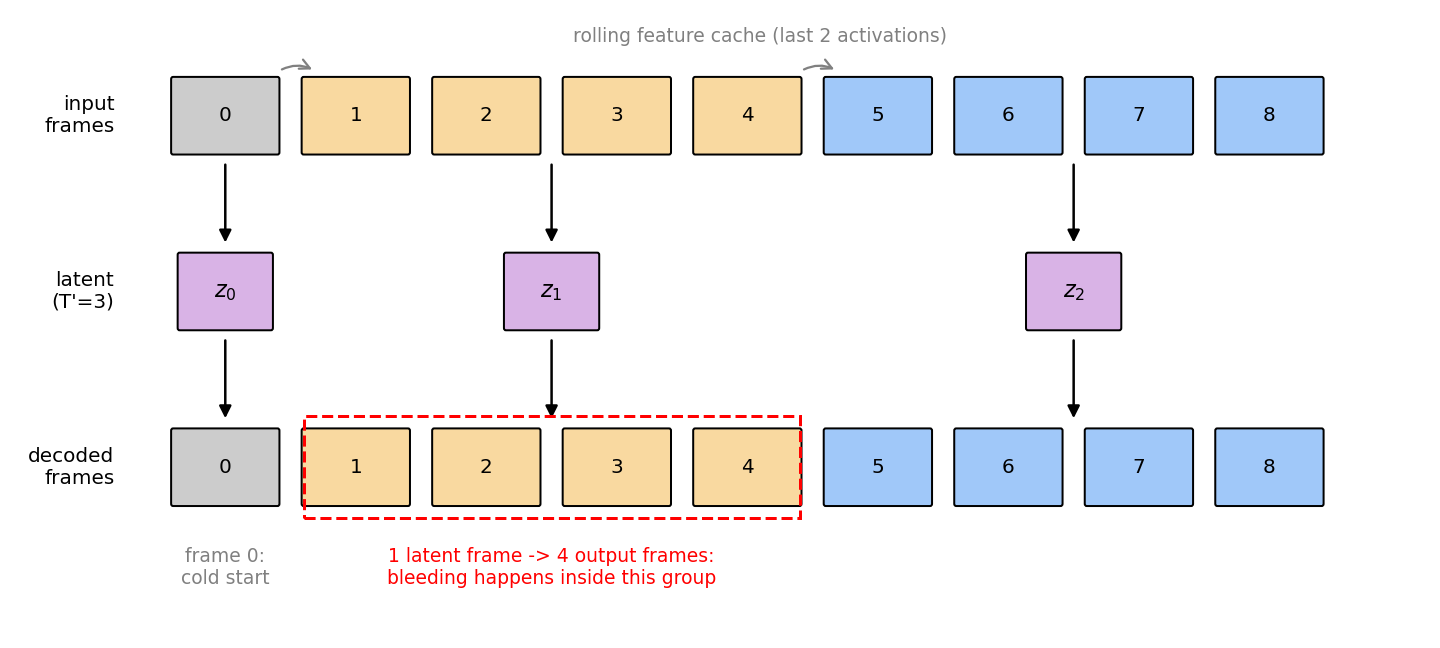
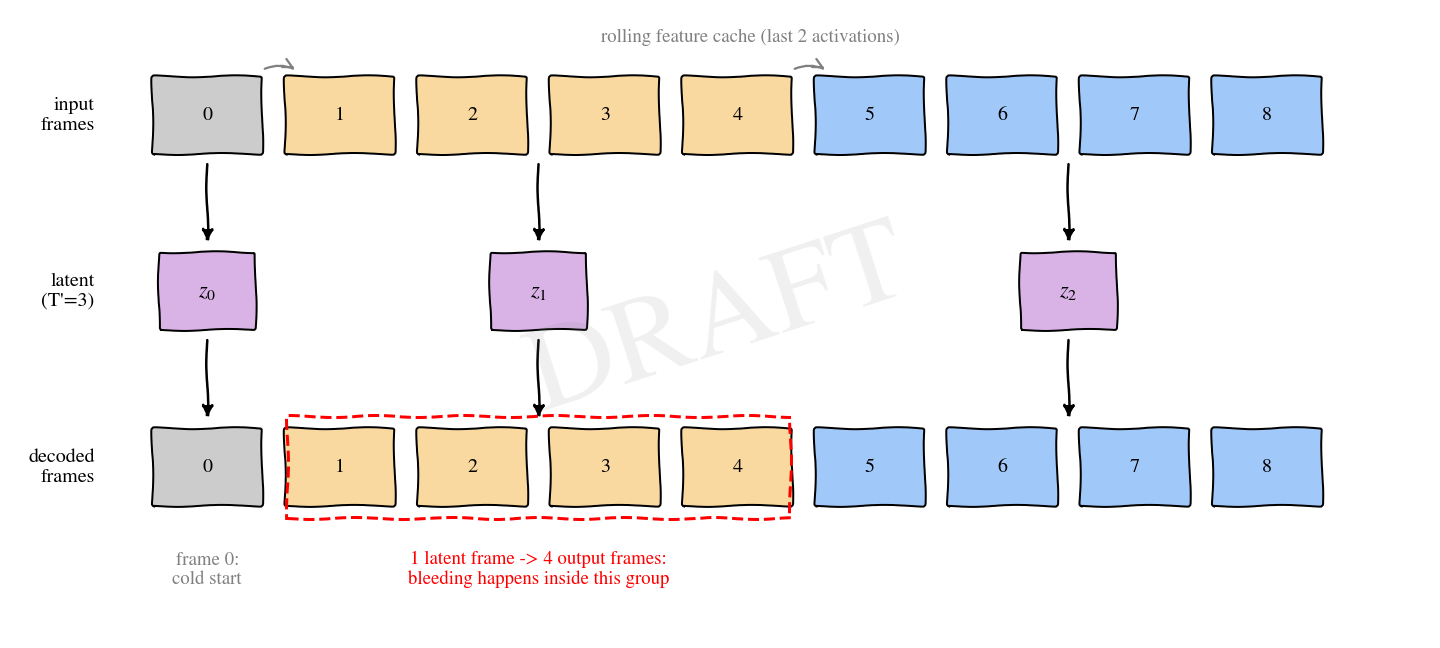
figures: CVPR-like serif font, sketchy draft style, fusion panel; keep face-containing figures local (NeRSemble license)

diff --git a/paper/figures/make_mock_figures.py b/paper/figures/make_mock_figures.py
@@ -1,20 +1,35 @@
 """
 Mock versions of the paper figures, for layout discussions only.
 
-Everything with data in it uses made-up numbers (watermarked MOCK). The real
-figures are generated from the rerun results (collect_results.py CSV + the
-eval clip dumps) once the sweep is done.
+Everything with data in it uses made-up numbers (watermarked DRAFT / MOCK).
+The real figures are generated from the rerun results (collect_results.py CSV
++ the eval clip dumps) once the sweep is done.
+
+The two thumbnails in assets/ are center-cropped frames from NeRSemble
+(participant 451, cams 222200037 / 222200049). They are gitignored on purpose:
+the dataset license does not allow republishing images, so don't commit them.
+If assets/ is missing the script falls back to gray placeholders.
 
 Run:  python3 make_mock_figures.py   (writes PNGs next to this file)
 """
 
 import os
 
+import matplotlib
 import matplotlib.pyplot as plt
 import numpy as np
-from matplotlib.patches import FancyArrowPatch, FancyBboxPatch
+from matplotlib.patches import FancyArrowPatch, FancyBboxPatch, Polygon
 
 OUT = os.path.dirname(os.path.abspath(__file__))
+
+# CVPR template uses Times; STIXGeneral is the closest Times-like font that
+# ships with matplotlib. The sketch param gives everything a hand-drawn wobble
+# so nobody mistakes these for final figures.
+matplotlib.rcParams.update({
+    "font.family": "STIXGeneral",
+    "mathtext.fontset": "stix",
+    "path.sketch": (1, 100, 2),
+})
 
 # color code used in all schematics
 C_FROZEN = "#aecbe8"   # blue: frozen pretrained
@@ -22,6 +37,26 @@ C_NEW = "#f5b942"      # orange: new modules, zero-init
 C_LORA = "#8fd19e"     # green: LoRA adapters
 C_LATENT = "#d9b3e6"   # purple: the latent
 C_GT = "#444444"
+
+
+def load_view(name):
+    path = os.path.join(OUT, "assets", f"{name}.png")
+    if os.path.exists(path):
+        return plt.imread(path)
+    return np.full((64, 64, 3), 0.82)  # gray placeholder if assets are missing
+
+
+def watermark(fig, text="DRAFT"):
+    fig.text(0.5, 0.5, text, fontsize=48, color="gray", alpha=0.12,
+             ha="center", va="center", rotation=18, zorder=100)
+
+
+def thumb(ax, img, x, y, s, label=None, fontsize=7.5, alpha=1.0):
+    """Draw a square image thumbnail with an optional label below it."""
+    ax.imshow(img, extent=(x, x + s, y, y + s), zorder=3, alpha=alpha)
+    ax.add_patch(plt.Rectangle((x, y), s, s, fill=False, ec="black", lw=0.8, zorder=4))
+    if label:
+        ax.text(x + s / 2, y - 0.09, label, ha="center", va="top", fontsize=fontsize)
 
 
 def box(ax, x, y, w, h, color, text, fontsize=8.5, ec="black"):
@@ -35,61 +70,155 @@ def arrow(ax, x0, y0, x1, y1, **kw):
                                  mutation_scale=10, lw=1.0, color="black", **kw))
 
 
-# ---------------------------------------------------------------- overview
-def fig_overview():
-    fig, ax = plt.subplots(figsize=(10, 3.4))
+# ------------------------------------------------------- broad overview
+def fig_broad_overview():
+    """The one-glance version: input -> encoder -> latent -> decoder -> output."""
+    fig, ax = plt.subplots(figsize=(10, 3))
     ax.set_xlim(0, 10)
-    ax.set_ylim(0, 3.4)
+    ax.set_ylim(0, 3)
+    ax.set_aspect("equal")
     ax.axis("off")
 
-    # inputs
-    box(ax, 0.2, 2.1, 0.9, 0.8, "white", "view 1\n[3,T,H,W]")
-    box(ax, 0.2, 0.5, 0.9, 0.8, "white", "view 2\n[3,T,H,W]")
+    v1, v2 = load_view("view1"), load_view("view2")
+
+    # input stack: V views (only two drawn), offset like a card stack
+    thumb(ax, v2, 0.75, 1.05, 0.95)
+    thumb(ax, v1, 0.55, 0.85, 0.95)
+    ax.text(1.15, 0.55, "input $x$\n$[V, 3, T, H, W]$\n$V{=}2,\\ T{=}9,\\ 128^2$",
+            ha="center", va="top", fontsize=8)
+
+    # encoder trapezoid (wide -> narrow)
+    ax.add_patch(Polygon([(2.4, 0.6), (2.4, 2.4), (4.0, 1.9), (4.0, 1.1)],
+                         fc=C_FROZEN, ec="black", lw=0.8))
+    ax.text(3.2, 1.5, "encoder\n(Wan, frozen\n+ fusion)", ha="center", va="center", fontsize=8.5)
+    arrow(ax, 1.85, 1.5, 2.35, 1.5)
+
+    # latent
+    box(ax, 4.5, 1.15, 0.85, 0.7, C_LATENT, "$z$")
+    ax.text(4.92, 0.95, "$[16, T', \\frac{H}{8}, \\frac{W}{8}]$\n$T' = 1 + \\frac{T-1}{4} = 3$",
+            ha="center", va="top", fontsize=8)
+    arrow(ax, 4.05, 1.5, 4.45, 1.5)
+    ax.text(4.92, 2.15, "one shared latent\nfor all $V$ views", ha="center", va="bottom",
+            fontsize=7.5, style="italic")
+
+    # decoder trapezoid (narrow -> wide)
+    ax.add_patch(Polygon([(5.9, 1.1), (5.9, 1.9), (7.5, 2.4), (7.5, 0.6)],
+                         fc=C_FROZEN, ec="black", lw=0.8))
+    ax.text(6.7, 1.5, "decoder\n(Wan, frozen\n+ per-view LoRA)", ha="center", va="center", fontsize=8.5)
+    arrow(ax, 5.4, 1.5, 5.85, 1.5)
+
+    # output stack
+    thumb(ax, v2, 8.35, 1.05, 0.95)
+    thumb(ax, v1, 8.15, 0.85, 0.95)
+    ax.text(8.75, 0.55, "output $\\hat{x}$\n$[V, 3, T, H, W]$",
+            ha="center", va="top", fontsize=8)
+    arrow(ax, 7.55, 1.5, 8.1, 1.5)
+
+    watermark(fig)
+    fig.tight_layout()
+    fig.savefig(os.path.join(OUT, "mock_broad_overview.png"), dpi=180)
+    plt.close(fig)
+
+
+# ---------------------------------------------------------------- overview
+def fig_overview():
+    fig, ax = plt.subplots(figsize=(11, 3.8))
+    ax.set_xlim(0, 11)
+    ax.set_ylim(0, 3.8)
+    ax.set_aspect("equal")
+    ax.axis("off")
+
+    v1, v2 = load_view("view1"), load_view("view2")
+
+    # inputs: real frames
+    thumb(ax, v1, 0.25, 2.35, 0.85, "view 1  $[3,T,H,W]$", fontsize=7)
+    thumb(ax, v2, 0.25, 0.75, 0.85, "view 2  $[3,T,H,W]$", fontsize=7)
 
     # shared frozen encoder stem (drawn once per view for the data flow)
-    box(ax, 1.5, 2.1, 1.5, 0.8, C_FROZEN, "Wan encoder stem\n(frozen, shared)")
-    box(ax, 1.5, 0.5, 1.5, 0.8, C_FROZEN, "Wan encoder stem\n(frozen, shared)")
-    arrow(ax, 1.1, 2.5, 1.5, 2.5)
-    arrow(ax, 1.1, 0.9, 1.5, 0.9)
+    box(ax, 1.6, 2.35, 1.5, 0.8, C_FROZEN, "Wan encoder stem\n(frozen, shared)")
+    box(ax, 1.6, 0.75, 1.5, 0.8, C_FROZEN, "Wan encoder stem\n(frozen, shared)")
+    arrow(ax, 1.15, 2.77, 1.6, 2.77)
+    arrow(ax, 1.15, 1.17, 1.6, 1.17)
 
     # fusion
-    box(ax, 3.4, 1.25, 1.3, 0.9, C_NEW, "cross-view\nattention\n(zero-init)")
-    arrow(ax, 3.0, 2.5, 3.5, 2.0)
-    arrow(ax, 3.0, 0.9, 3.5, 1.4)
-    box(ax, 5.0, 1.25, 1.0, 0.9, C_NEW, "tree\nmerge")
-    arrow(ax, 4.7, 1.7, 5.0, 1.7)
+    box(ax, 3.5, 1.5, 1.3, 0.9, C_NEW, "cross-view\nattention\n(zero-init)")
+    arrow(ax, 3.1, 2.77, 3.6, 2.3)
+    arrow(ax, 3.1, 1.17, 3.6, 1.6)
+    box(ax, 5.1, 1.5, 1.0, 0.9, C_NEW, "tree\nmerge")
+    arrow(ax, 4.8, 1.95, 5.1, 1.95)
 
     # bottleneck middle/head (frozen + LoRA) -> latent
-    box(ax, 6.3, 1.25, 1.0, 0.9, C_FROZEN, "middle/\nhead")
-    ax.add_patch(FancyBboxPatch((6.35, 2.18), 0.9, 0.28, boxstyle="round,pad=0.01",
+    box(ax, 6.4, 1.5, 1.0, 0.9, C_FROZEN, "middle/\nhead")
+    ax.add_patch(FancyBboxPatch((6.45, 2.43), 0.9, 0.28, boxstyle="round,pad=0.01",
                                 fc=C_LORA, ec="black", lw=0.6))
-    ax.text(6.8, 2.32, "LoRA", ha="center", va="center", fontsize=7)
-    arrow(ax, 6.0, 1.7, 6.3, 1.7)
-    box(ax, 7.6, 1.35, 0.7, 0.7, C_LATENT, "z\n16ch")
-    arrow(ax, 7.3, 1.7, 7.6, 1.7)
+    ax.text(6.9, 2.57, "LoRA", ha="center", va="center", fontsize=7)
+    arrow(ax, 6.1, 1.95, 6.4, 1.95)
+    box(ax, 7.7, 1.6, 0.7, 0.7, C_LATENT, "$z$\n16 ch")
+    ax.text(8.05, 1.4, "$[16,T',\\frac{H}{8},\\frac{W}{8}]$", ha="center", va="top", fontsize=7)
+    arrow(ax, 7.4, 1.95, 7.7, 1.95)
 
     # per-view decode
-    box(ax, 8.6, 2.1, 1.2, 0.8, C_FROZEN, "Wan decoder\n(frozen)")
-    box(ax, 8.6, 0.5, 1.2, 0.8, C_FROZEN, "Wan decoder\n(frozen)")
-    ax.add_patch(FancyBboxPatch((8.65, 2.95), 0.65, 0.26, boxstyle="round,pad=0.01",
+    box(ax, 8.7, 2.35, 1.2, 0.8, C_FROZEN, "Wan decoder\n(frozen)")
+    box(ax, 8.7, 0.75, 1.2, 0.8, C_FROZEN, "Wan decoder\n(frozen)")
+    ax.add_patch(FancyBboxPatch((8.75, 3.2), 0.65, 0.26, boxstyle="round,pad=0.01",
                                 fc=C_LORA, ec="black", lw=0.6))
-    ax.text(8.97, 3.08, "LoRA v=1", ha="center", va="center", fontsize=6.5)
-    ax.add_patch(FancyBboxPatch((8.65, 0.13), 0.65, 0.26, boxstyle="round,pad=0.01",
+    ax.text(9.07, 3.33, "LoRA v=1", ha="center", va="center", fontsize=6.5)
+    ax.add_patch(FancyBboxPatch((8.75, 0.38), 0.65, 0.26, boxstyle="round,pad=0.01",
                                 fc=C_LORA, ec="black", lw=0.6))
-    ax.text(8.97, 0.26, "LoRA v=2", ha="center", va="center", fontsize=6.5)
-    arrow(ax, 8.3, 1.85, 8.6, 2.4)
-    arrow(ax, 8.3, 1.55, 8.6, 1.0)
-    ax.text(9.2, 1.7, "shared latent,\ndecoded V times", ha="center", va="center",
-            fontsize=7, style="italic")
+    ax.text(9.07, 0.51, "LoRA v=2", ha="center", va="center", fontsize=6.5)
+    arrow(ax, 8.4, 2.1, 8.7, 2.65)
+    arrow(ax, 8.4, 1.8, 8.7, 1.25)
+
+    # reconstructed outputs (same frames, slightly faded = "reconstruction")
+    thumb(ax, v1, 10.05, 2.32, 0.85, "$\\hat{x}$ view 1", fontsize=7, alpha=0.85)
+    thumb(ax, v2, 10.05, 0.72, 0.85, "$\\hat{x}$ view 2", fontsize=7, alpha=0.85)
+    arrow(ax, 9.92, 2.75, 10.03, 2.75)
+    arrow(ax, 9.92, 1.15, 10.03, 1.15)
 
     # legend
     for i, (c, t) in enumerate([(C_FROZEN, "frozen pretrained"), (C_NEW, "new, zero-init"),
                                 (C_LORA, "LoRA (rank 32)"), (C_LATENT, "fused latent")]):
-        box(ax, 0.3 + i * 2.0, 3.05, 0.25, 0.22, c, "")
-        ax.text(0.62 + i * 2.0, 3.16, t, va="center", fontsize=7.5)
+        box(ax, 1.7 + i * 2.1, 3.45, 0.25, 0.22, c, "")
+        ax.text(2.02 + i * 2.1, 3.56, t, va="center", fontsize=7.5)
 
+    watermark(fig)
     fig.tight_layout()
     fig.savefig(os.path.join(OUT, "mock_overview.png"), dpi=180)
+    plt.close(fig)
+
+
+# ---------------------------------------------------------------- fusion mechanisms
+def fig_fusion():
+    """The four fusion variants of the ablation, one mini-panel each."""
+    fig, axes = plt.subplots(1, 4, figsize=(11, 2.6))
+    titles = [
+        "(a) cross-view attention\n+ tree merge",
+        "(b) joint self-attention\n+ concat/ResBlocks",
+        "(c) channel-concat\nConv3d",
+        "(d) factorized (2+1+1)D\nconvolution",
+    ]
+    inner = [
+        "MHA over\n$V \\times N$ tokens",
+        "self-attn over\nall view tokens",
+        "1x1x1 Conv3d\n+ 2 ResBlocks",
+        "2D + temporal\n+ view conv",
+    ]
+    for ax, title, mech in zip(axes, titles, inner):
+        ax.set_xlim(0, 3)
+        ax.set_ylim(0, 3)
+        ax.axis("off")
+        box(ax, 0.15, 1.9, 0.8, 0.6, "white", "$f_1$", fontsize=8)
+        box(ax, 0.15, 0.5, 0.8, 0.6, "white", "$f_2$", fontsize=8)
+        box(ax, 1.15, 1.1, 1.1, 0.8, C_NEW, mech, fontsize=7)
+        arrow(ax, 0.97, 2.2, 1.25, 1.85)
+        arrow(ax, 0.97, 0.8, 1.25, 1.15)
+        box(ax, 2.45, 1.2, 0.5, 0.6, C_LATENT, "$f$", fontsize=8)
+        arrow(ax, 2.27, 1.5, 2.45, 1.5)
+        ax.set_title(title, fontsize=8.5)
+
+    watermark(fig)
+    fig.tight_layout()
+    fig.savefig(os.path.join(OUT, "mock_fusion.png"), dpi=180)
     plt.close(fig)
 
 
@@ -137,6 +266,7 @@ def fig_chunking():
             ha="center", fontsize=7.5, color="red")
     ax.text(0.4, -0.15, "frame 0:\ncold start", ha="center", fontsize=7.5, color="gray")
 
+    watermark(fig)
     fig.tight_layout()
     fig.savefig(os.path.join(OUT, "mock_chunking.png"), dpi=180)
     plt.close(fig)
@@ -177,9 +307,8 @@ def fig_rate_quality():
     ax.set_title("Rate-quality plane (headline figure)")
     ax.legend(fontsize=7.5, loc="lower left")
     ax.grid(alpha=0.25)
-    ax.text(0.5, 0.5, "MOCK DATA", transform=ax.transAxes, fontsize=34, color="gray",
-            alpha=0.18, ha="center", va="center", rotation=20)
 
+    watermark(fig, "DRAFT / MOCK DATA")
     fig.tight_layout()
     fig.savefig(os.path.join(OUT, "mock_rate_quality.png"), dpi=180)
     plt.close(fig)
@@ -221,10 +350,7 @@ def fig_perframe():
     ax2.legend(fontsize=7.5)
     ax2.grid(alpha=0.25)
 
-    for ax in (ax1, ax2):
-        ax.text(0.5, 0.5, "MOCK", transform=ax.transAxes, fontsize=30, color="gray",
-                alpha=0.15, ha="center", va="center", rotation=20)
-
+    watermark(fig, "DRAFT / MOCK DATA")
     fig.tight_layout()
     fig.savefig(os.path.join(OUT, "mock_perframe.png"), dpi=180)
     plt.close(fig)
@@ -254,19 +380,20 @@ def fig_datascale():
     ax.set_ylabel("bleed ratio", color="#b06000")
     ax.tick_params(axis="y", colors="#b06000")
     ax.set_title("failure vs generalization pressure")
-    ax.text(0.5, 0.5, "MOCK", transform=ax.transAxes, fontsize=30, color="gray",
-            alpha=0.15, ha="center", va="center", rotation=20)
 
     lines = ax.get_lines()[:1] + ax2.get_lines()[:1]
     ax.legend(lines, [l.get_label() for l in lines], fontsize=7.5, loc="center left")
 
+    watermark(fig, "DRAFT / MOCK DATA")
     fig.tight_layout()
     fig.savefig(os.path.join(OUT, "mock_datascale.png"), dpi=180)
     plt.close(fig)
 
 
 if __name__ == "__main__":
+    fig_broad_overview()
     fig_overview()
+    fig_fusion()
     fig_chunking()
     fig_rate_quality()
     fig_perframe()
